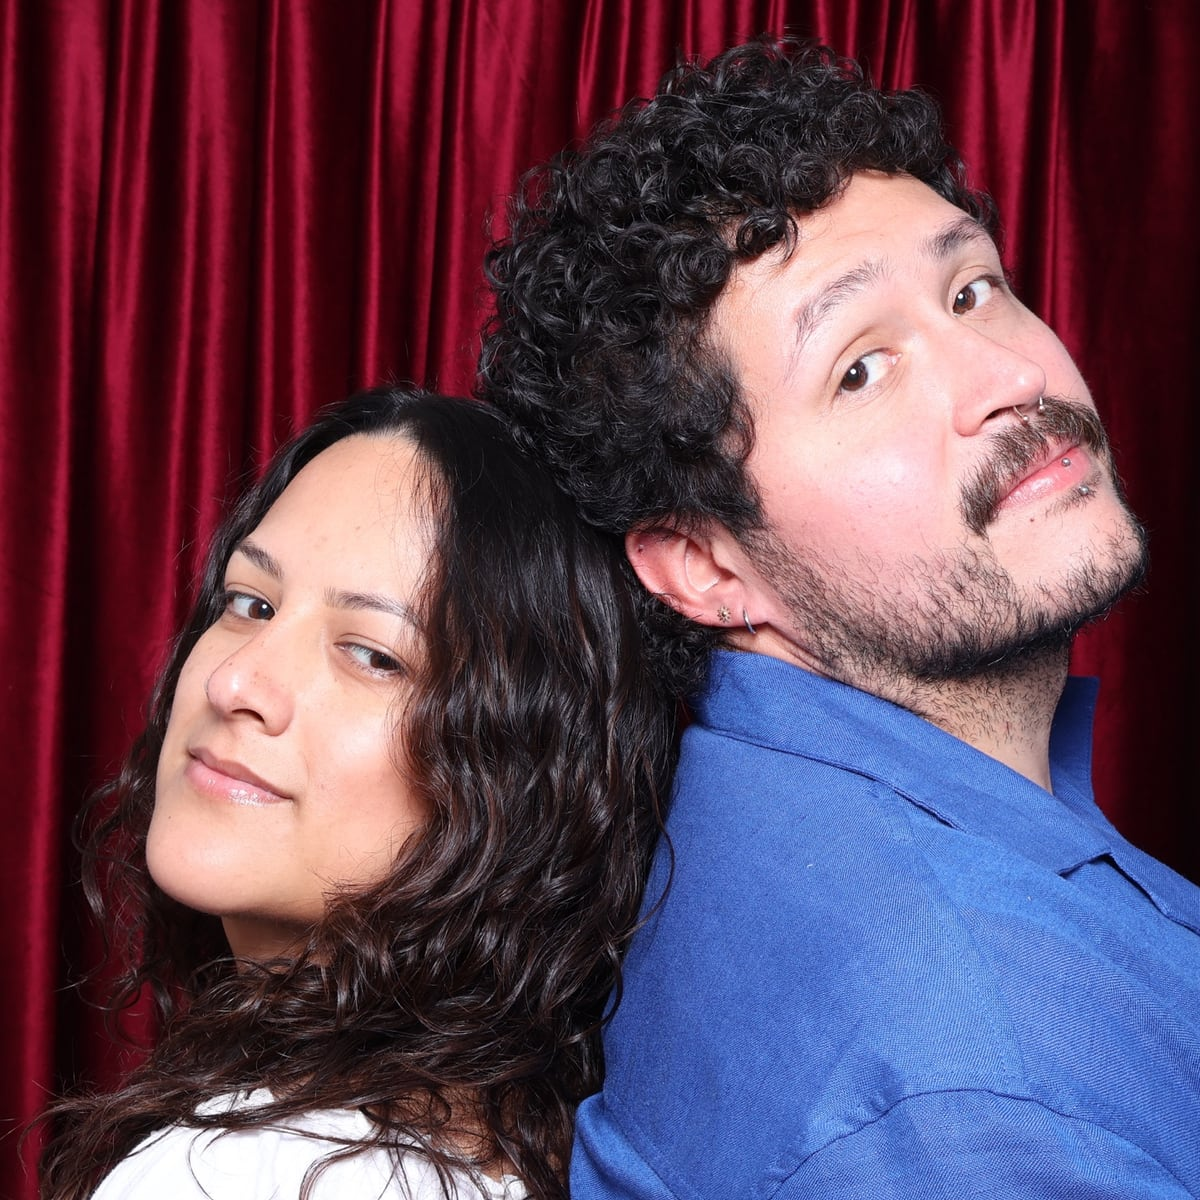
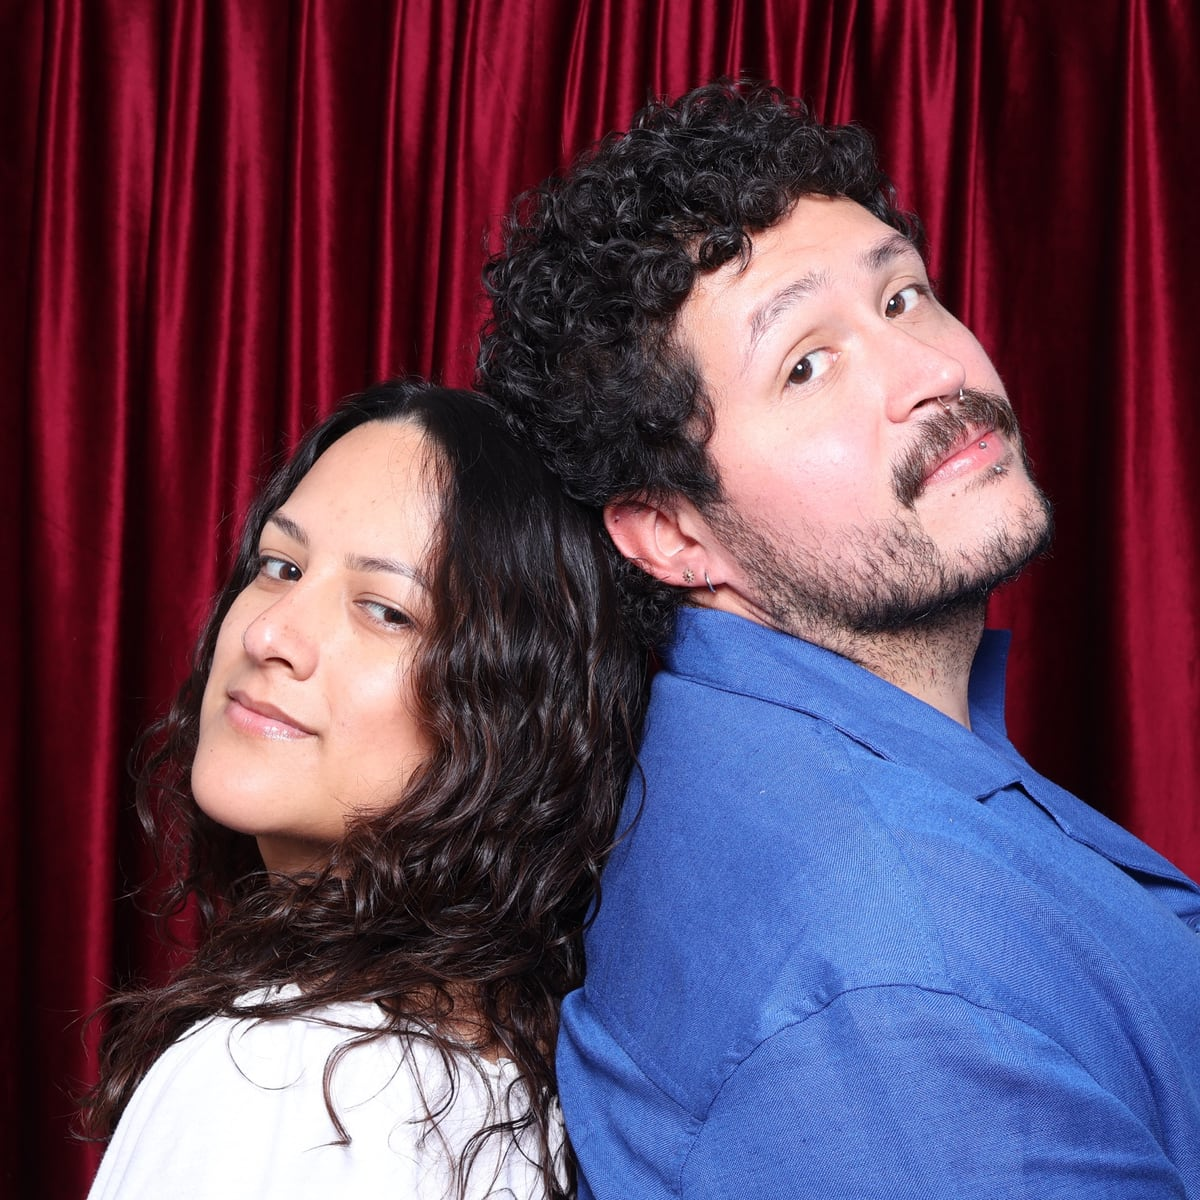
feat: shorten Dan's line and widen the couple photo crop

diff --git a/src/content.ts b/src/content.ts
@@ -39,7 +39,7 @@ export interface Member {
 }
 
 export const members: Member[] = [
-  { name: "Dan", line: "Builds software for telescopes, collects vinyl from his favorite artists and hunts for the next great coffee spot. Concerts took some of his hearing. He says \"huh?\" a lot. Alexis is convinced half of them are on purpose.", color: "var(--salamander)", portrait: danPhoto },
+  { name: "Dan", line: "Builds software for telescopes, collects vinyl and chases good coffee. Concerts took some of his hearing, and Alexis thinks half his \"huh?\"s are on purpose.", color: "var(--salamander)", portrait: danPhoto },
   { name: "Alexis", line: "Research tech at Caltech, artist at heart and the most thoughtful person you'll ever meet. Also the sleepiest, the cutest, and the one who decides where we're dropping.", color: "var(--pink)", portrait: alexisPhoto },
   { name: "Milly", line: "Big floppy Dumbo ears, a whole lot of sass and zero fear of heights. She's sure she's invincible, and she's definitely the cutest pup around.", color: "var(--sage)", portrait: millyPhoto },
   { name: "Penny", line: "A calico cuddle bug who will let you know, loudly, when dinner is late. She and Milly are Stinky and the Brainless.", color: "var(--gold)", portrait: pennyPhoto },
